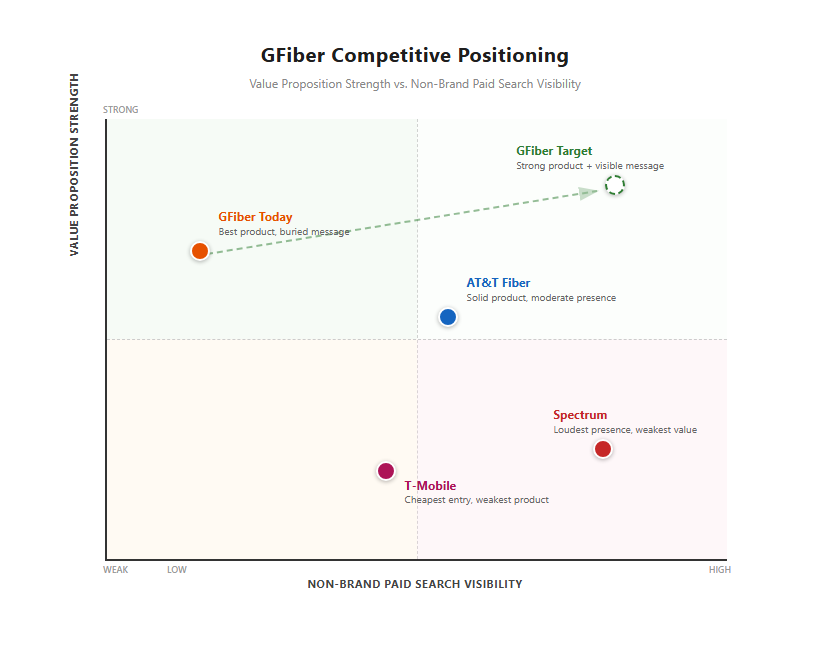
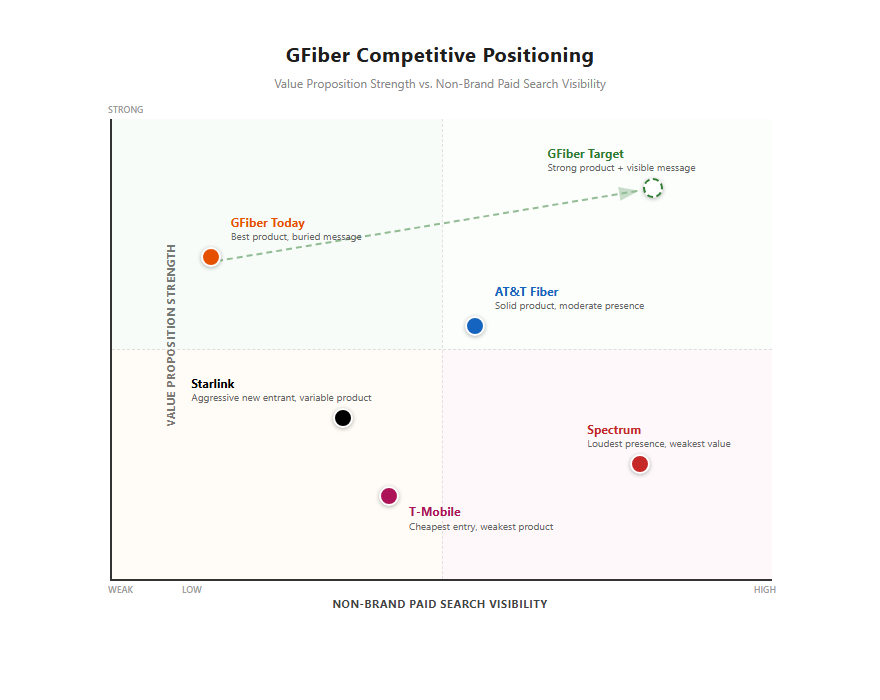
Add Starlink to positioning matrix (5 providers)

diff --git a/positioning-matrix.html b/positioning-matrix.html
@@ -1,0 +1,180 @@
+<!DOCTYPE html>
+<html>
+<head>
+<style>
+  body { margin: 0; padding: 40px; background: white; font-family: 'Segoe UI', Arial, sans-serif; }
+  .matrix-container { width: 800px; height: 620px; position: relative; }
+  .title { text-align: center; font-size: 20px; font-weight: 700; color: #1e1e1e; margin-bottom: 8px; letter-spacing: 0.5px; }
+  .subtitle { text-align: center; font-size: 12px; color: #888; margin-bottom: 28px; }
+
+  .chart-area {
+    position: relative;
+    width: 660px;
+    height: 460px;
+    margin: 0 auto;
+    border-left: 2px solid #333;
+    border-bottom: 2px solid #333;
+  }
+
+  .chart-area::before {
+    content: '';
+    position: absolute;
+    left: 50%;
+    top: 0;
+    bottom: 0;
+    border-left: 1px dashed #ddd;
+  }
+  .chart-area::after {
+    content: '';
+    position: absolute;
+    top: 50%;
+    left: 0;
+    right: 0;
+    border-top: 1px dashed #ddd;
+  }
+
+  .q-tl { position: absolute; top: 0; left: 0; width: 50%; height: 50%; background: #e8f5e9; opacity: 0.3; }
+  .q-tr { position: absolute; top: 0; right: 0; width: 50%; height: 50%; background: #e8f5e9; opacity: 0.15; }
+  .q-bl { position: absolute; bottom: 0; left: 0; width: 50%; height: 50%; background: #fff3e0; opacity: 0.3; }
+  .q-br { position: absolute; bottom: 0; right: 0; width: 50%; height: 50%; background: #fce4ec; opacity: 0.25; }
+
+  .point {
+    position: absolute;
+    width: 16px;
+    height: 16px;
+    border-radius: 50%;
+    transform: translate(-50%, 50%);
+    z-index: 10;
+    border: 2px solid white;
+    box-shadow: 0 1px 4px rgba(0,0,0,0.3);
+  }
+  .label {
+    position: absolute;
+    z-index: 11;
+    font-size: 12px;
+    font-weight: 700;
+    line-height: 1.3;
+    white-space: nowrap;
+  }
+  .label-sub {
+    font-weight: 400;
+    font-size: 10px;
+    color: #666;
+    display: block;
+  }
+
+  /* GFiber Today - high value prop, low visibility */
+  .pt-gfiber { background: #e65100; bottom: 70%; left: 15%; }
+  .lb-gfiber { bottom: 73%; left: 18%; color: #e65100; }
+
+  /* Spectrum - low value prop, high visibility */
+  .pt-spectrum { background: #c62828; bottom: 25%; left: 80%; }
+  .lb-spectrum { bottom: 28%; left: 72%; color: #c62828; }
+
+  /* AT&T Fiber - moderate both */
+  .pt-att { background: #1565c0; bottom: 55%; left: 55%; }
+  .lb-att { bottom: 58%; left: 58%; color: #1565c0; }
+
+  /* T-Mobile - low-middle visibility, low value prop */
+  .pt-tmobile { background: #ad1457; bottom: 18%; left: 42%; }
+  .lb-tmobile { bottom: 10%; left: 45%; color: #ad1457; }
+
+  /* Starlink - moderate visibility (aggressive new entrant), low-mid value prop */
+  .pt-starlink { background: #000000; bottom: 35%; left: 35%; }
+  .lb-starlink { bottom: 38%; left: 12%; color: #000000; }
+
+  /* GFiber Target - top right */
+  .pt-target { background: #2e7d32; bottom: 85%; left: 82%; border-style: dashed; border-color: #2e7d32; background: white; }
+  .lb-target { bottom: 88%; left: 66%; color: #2e7d32; }
+
+  .axis-label-y {
+    position: absolute;
+    left: -28px;
+    top: 50%;
+    transform: rotate(-90deg);
+    font-size: 11px;
+    font-weight: 700;
+    color: #444;
+    white-space: nowrap;
+    letter-spacing: 0.5px;
+  }
+  .axis-label-x {
+    position: absolute;
+    bottom: -30px;
+    left: 50%;
+    transform: translateX(-50%);
+    font-size: 11px;
+    font-weight: 700;
+    color: #444;
+    white-space: nowrap;
+    letter-spacing: 0.5px;
+  }
+  .axis-end {
+    position: absolute;
+    font-size: 9px;
+    color: #999;
+    font-weight: 600;
+  }
+  .y-high { top: -16px; left: -4px; }
+  .y-low { bottom: -16px; left: -4px; }
+  .x-low { bottom: -16px; left: 70px; }
+  .x-high { bottom: -16px; right: -4px; }
+
+  .arrow-svg {
+    position: absolute;
+    top: 0;
+    left: 0;
+    width: 100%;
+    height: 100%;
+    z-index: 6;
+    pointer-events: none;
+  }
+</style>
+</head>
+<body>
+  <div class="matrix-container">
+    <div class="title">GFiber Competitive Positioning</div>
+    <div class="subtitle">Value Proposition Strength vs. Non-Brand Paid Search Visibility</div>
+
+    <div style="position: relative; width: 660px; margin: 0 auto;">
+      <div class="axis-label-y" style="left: -24px; top: 45%; transform: rotate(-90deg) translateY(-50%);">VALUE PROPOSITION STRENGTH</div>
+      <div class="axis-label-x">NON-BRAND PAID SEARCH VISIBILITY</div>
+
+      <div class="chart-area">
+        <div class="q-tl"></div>
+        <div class="q-tr"></div>
+        <div class="q-bl"></div>
+        <div class="q-br"></div>
+
+        <svg class="arrow-svg" viewBox="0 0 660 460">
+          <defs>
+            <marker id="arrowhead" markerWidth="10" markerHeight="7" refX="9" refY="3.5" orient="auto">
+              <polygon points="0 0, 10 3.5, 0 7" fill="#2e7d32" opacity="0.5"/>
+            </marker>
+          </defs>
+          <line x1="105" y1="142" x2="525" y2="72" stroke="#2e7d32" stroke-width="2" stroke-dasharray="6,4" opacity="0.5" marker-end="url(#arrowhead)"/>
+        </svg>
+
+        <div class="point pt-gfiber"></div>
+        <div class="point pt-spectrum"></div>
+        <div class="point pt-att"></div>
+        <div class="point pt-tmobile"></div>
+        <div class="point pt-starlink"></div>
+        <div class="point pt-target"></div>
+
+        <div class="label lb-gfiber">GFiber Today<span class="label-sub">Best product, buried message</span></div>
+        <div class="label lb-spectrum">Spectrum<span class="label-sub">Loudest presence, weakest value</span></div>
+        <div class="label lb-att">AT&T Fiber<span class="label-sub">Solid product, moderate presence</span></div>
+        <div class="label lb-tmobile">T-Mobile<span class="label-sub">Cheapest entry, weakest product</span></div>
+        <div class="label lb-starlink">Starlink<span class="label-sub">Aggressive new entrant, variable product</span></div>
+        <div class="label lb-target">GFiber Target<span class="label-sub">Strong product + visible message</span></div>
+
+        <div class="axis-end y-high">STRONG</div>
+        <div class="axis-end y-low">WEAK</div>
+        <div class="axis-end x-low">LOW</div>
+        <div class="axis-end x-high">HIGH</div>
+      </div>
+    </div>
+  </div>
+</body>
+</html>
